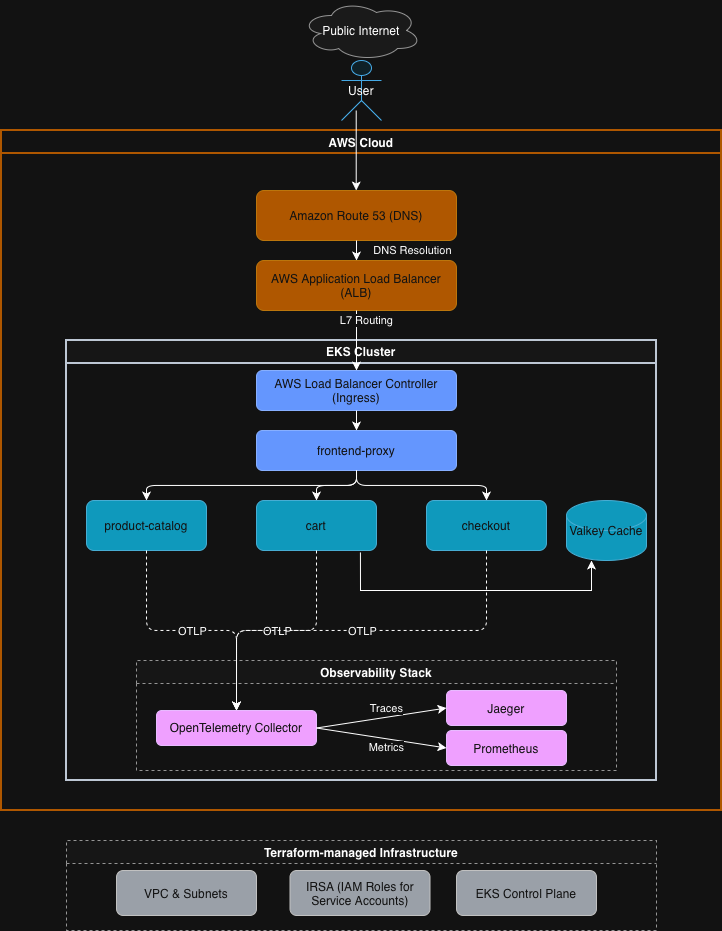
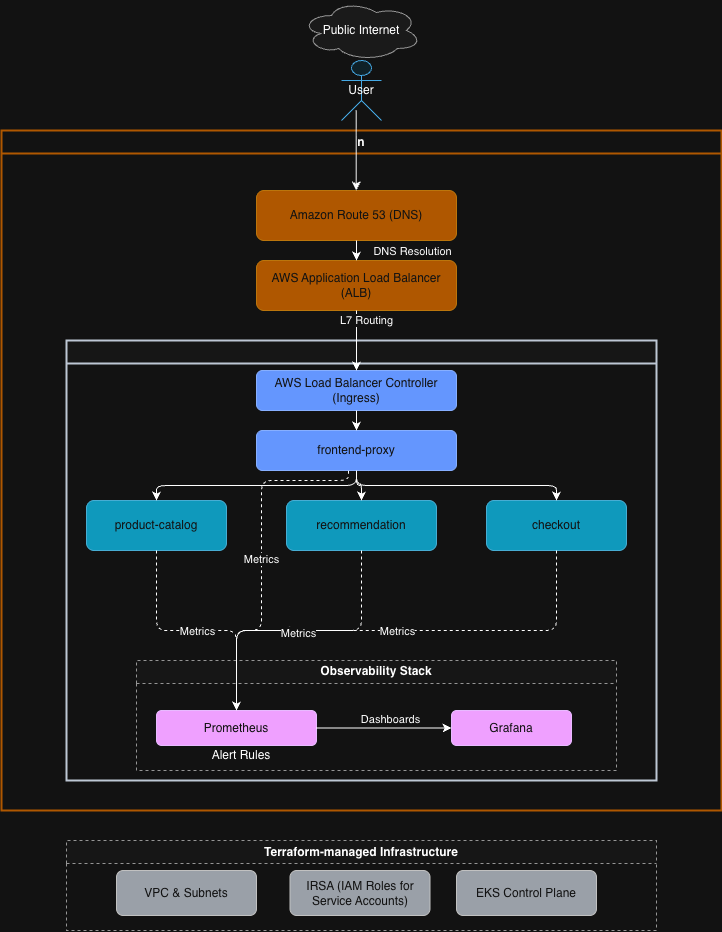
Update architecture diagram to reflect Prometheus-Grafana observability on EKS

diff --git a/README.md b/README.md
@@ -1,119 +1,240 @@
-# Cloud-Native E-Commerce Platform (AWS EKS + GitOps)
+# Cloud-Native E-Commerce Platform
 
-This project demonstrates a production-style, cloud-native microservices
-e-commerce platform deployed on AWS using Kubernetes (EKS), Terraform,
-CI/CD, and GitOps principles.
+A production-grade microservices platform running on AWS EKS with full observability, GitOps deployment, and infrastructure as code.
 
-The focus of this project is not just deployment, but **architecture decisions,
-failure handling, automation, and cost control** — similar to how real
-platform and SRE teams operate in production environments.
+This project demonstrates end-to-end platform engineering: infrastructure provisioning, deployment automation, monitoring with failure validation, and safe release management.
 
 ---
 
-## Architecture Overview
+## Architecture
 
-The application is composed of multiple independently deployable
-microservices running on Kubernetes (Amazon EKS).
+The platform runs 19 microservices on Amazon EKS. Infrastructure is provisioned with Terraform. Deployments follow GitOps principles using ArgoCD, with GitHub Actions handling CI.
 
-Infrastructure such as VPC, EKS cluster, networking, and IAM roles is
-provisioned using Terraform to ensure repeatability and version control.
+![Architecture Diagram](screenshots/architecture.png)
 
-Continuous Integration (CI) is handled using GitHub Actions, while
-Continuous Deployment (CD) follows GitOps principles using Argo CD,
-where Git acts as the single source of truth for the cluster state.
-
----
-
-## Architecture Diagram
-
-![Architecture](docs/architecture.png)
-
----
-
-## Request Flow
-
-User  
-→ DNS (Route53)  
-→ AWS Application Load Balancer (ALB)  
-→ Kubernetes Ingress Controller  
-→ Kubernetes Service  
-→ Pod  
-→ Container  
-→ Response (same path back)
-
-- DNS resolves the custom domain to the ALB
-- ALB forwards traffic to the Ingress Controller
-- Ingress routes traffic based on path rules
-- Services forward traffic to healthy Pods
-- Pods serve requests through containers
-
-**Failure scenarios:**
-- If the Ingress controller is unavailable, external traffic cannot reach the cluster
-- If Service selectors are misconfigured, traffic does not reach Pods even if they are running
-
----
-
-## Why This Stack?
-
-- **Docker**: Packages applications and dependencies consistently
-- **Kubernetes (EKS)**: Provides scaling, self-healing, and service discovery
-- **EKS**: Eliminates operational overhead of managing the Kubernetes control plane
-- **Terraform**: Enables repeatable, version-controlled infrastructure provisioning
-- **ALB + Ingress**: Provides Layer-7 routing using AWS-native load balancing
-- **GitHub Actions**: Used for CI (build and push container images)
-- **Argo CD**: Used for CD via GitOps to prevent configuration drift
-
-AWS IAM Roles for Service Accounts (IRSA) are used to avoid hardcoded
-credentials and follow least-privilege access principles.
-
----
-
-## CI/CD Flow (Example: Product Catalog Service)
-
-1. Code changes trigger a GitHub Actions workflow
-2. Docker image is built and pushed to the container registry
-3. Kubernetes manifests are updated with the new image tag
-4. Argo CD detects the change and synchronizes it to the cluster
-
-This pattern can be reused for other microservices in the platform.
-
----
-
-## Failure & Debugging Approach
-
-- Pod crash → Kubernetes automatically restarts the Pod
-- Node failure → Pods are rescheduled onto healthy nodes
-- Kafka failure → Dependent services degrade while others remain available
-- Misconfigured environment variables → Pods may CrashLoop or behave incorrectly
-
-Debugging typically starts with:
-```bash
-kubectl get pods
-kubectl describe pod <pod-name>
-kubectl logs <pod-name>
+### Request Flow
+```
+User
+→ Route53 (DNS)
+→ AWS Application Load Balancer (ALB)
+→ AWS Load Balancer Controller (Ingress)
+→ Kubernetes Service
+→ Pod
+→ Application Container
 ```
 
-## Cost Control Strategy
+External traffic routes through Route53 to an AWS ALB, which forwards to the AWS Load Balancer Controller (Ingress). The ingress routes requests to Kubernetes services based on path rules, which then load-balance across healthy pods.
 
-Running EKS continuously is expensive, so infrastructure is deployed only
-when required and destroyed afterward using Terraform.
+---
 
-For interviews and demonstrations, architecture diagrams, screenshots, and
-clear explanations are used instead of keeping live infrastructure running.
+## Tech Stack
 
-## How to Run (High-Level)
+**Infrastructure:**
+- AWS (EKS, VPC, Route53, ALB)
+- Terraform for infrastructure as code
+- IRSA (IAM Roles for Service Accounts) for secure pod-level permissions
 
-Provision infrastructure:
-cd terraform && terraform apply
+**Container Orchestration:**
+- Kubernetes on Amazon EKS
+- Helm for package management
+- AWS Load Balancer Controller (Ingress) for L7 routing
 
-Deploy application:
-kubectl apply -f kubernetes/manifests/
+**CI/CD:**
+- GitHub Actions for continuous integration
+- ArgoCD for continuous deployment (GitOps)
+- Git as single source of truth
 
-Destroy:
-cd terraform && terraform destroy
+**Observability:**
+- Prometheus for metrics collection
+- Grafana for visualization and dashboards
+- Custom alerts for failure detection
+
+---
 
 ## Documentation
 
-Architecture diagrams and workflow screenshots are available in the `docs/` directory.
+### Core Operations (Deep Dives)
+- [Observability & Alerting](docs/observability.md) - Monitoring strategy with failure validation
+- [Helm Deployment](docs/helm.md) - Safe upgrade and rollback workflows
+- [CI/CD Deep Dive](docs/ci-cd-deep-dive.md) - Separated CI/CD with GitOps
 
+### Platform Foundations
+- [Containerization](docs/foundations/containerization.md) - Docker multi-stage builds
+- [Infrastructure](docs/foundations/terraform.md) - Terraform provisioning
+- [Kubernetes Orchestration](docs/foundations/kubernetes.md) - K8s deployment patterns
+- [DNS & External Access](docs/foundations/dns-route53.md) - Route53 configuration
 
+### Engineering Context
+- [Lessons Learned](docs/lessons-learned.md) - What changed how I think
+- [Architecture Tradeoffs](docs/tradeoffs.md) - Design decisions and rationale
+
+---
+
+## Key Features
+
+### Observability with Failure Validation
+
+Built a complete observability layer with Prometheus and Grafana:
+- Three custom dashboards (cluster health, application health, failure signals)
+- Alert rules for pod restarts and high CPU usage
+- Validated by intentionally triggering OOMKill failures and proving the monitoring caught them in real-time
+
+See [observability documentation](docs/observability.md) for details.
+
+### Helm Packaging
+
+Packaged the product-catalog service with Helm to demonstrate controlled deployment workflows:
+- Parameterized configuration via `values.yaml`
+- Validated install, upgrade, and rollback lifecycle
+- Demonstrates safe deployment practices
+
+See [Helm documentation](docs/helm.md) for details.
+
+### GitOps Deployment
+
+ArgoCD continuously monitors Git and reconciles cluster state:
+- Git is the single source of truth
+- Manual cluster changes are detected and corrected
+- Rollback is a simple `git revert`
+- Cluster credentials never leave the cluster
+
+See [CI/CD deep dive](docs/ci-cd-deep-dive.md) for details.
+
+---
+
+## Cost Management
+
+EKS clusters are expensive to run continuously. Infrastructure is provisioned on demand using Terraform and destroyed when not needed:
+```bash
+# Provision
+cd terraform && terraform apply
+
+# Deploy application
+kubectl apply -f kubernetes/manifests/
+
+# Destroy
+cd terraform && terraform destroy
+```
+
+For demonstrations and interviews, architecture diagrams, documentation, and screenshots replace permanently running infrastructure.
+
+---
+
+## CI/CD Flow
+
+**Continuous Integration (GitHub Actions):**
+1. Code change triggers workflow
+2. Docker image is built and pushed to registry
+3. Kubernetes manifests are updated with new image tag
+
+**Continuous Deployment (ArgoCD):**
+4. ArgoCD detects manifest change in Git
+5. Cluster state is synchronized automatically
+6. Deployment completes with zero manual intervention
+
+This separation keeps CI simple and cluster credentials isolated.
+
+---
+
+## Failure Scenarios & Recovery
+
+**Pod crashes:**
+- Kubernetes automatically restarts the pod
+- Liveness probes detect failures
+- Observability dashboards show restart spikes
+
+**Node failures:**
+- Pods are rescheduled onto healthy nodes
+- Service discovery updates automatically
+
+**Bad deployments:**
+- Helm rollback to previous version
+- ArgoCD syncs to last known good Git commit
+
+**Configuration errors:**
+- Pods may enter CrashLoopBackOff
+- Debug with: `kubectl logs`, `kubectl describe pod`
+
+---
+
+## What I Learned
+
+This project taught me that DevOps isn't about knowing more tools—it's about understanding where systems fail quietly.
+
+Most issues weren't complex bugs. They were small misconfigurations with large effects. This shifted my debugging approach from "why isn't this working" to "what assumption did I just make that isn't true?"
+
+See [lessons learned](docs/lessons-learned.md) for detailed reflections.
+
+---
+
+## Certifications
+
+- Certified Kubernetes Administrator (CKA)
+- Certified Kubernetes Application Developer (CKAD)
+- AWS Certified Solutions Architect – Associate
+- HashiCorp Terraform Associate
+- AWS Certified Cloud Practitioner
+
+---
+
+## Quick Start
+
+### Prerequisites
+- AWS CLI configured
+- kubectl installed
+- Terraform installed
+
+### Deploy Infrastructure
+```bash
+cd terraform
+terraform init
+terraform apply
+```
+
+### Configure kubectl
+```bash
+aws eks update-kubeconfig --region ap-south-1 --name my-eks-cluster
+```
+
+### Deploy Application
+```bash
+kubectl apply -f kubernetes/manifests/
+```
+
+### Access Application
+Application is accessible via custom domain configured through Route53.
+
+---
+
+## Repository Structure
+```
+.
+├── terraform/              # Infrastructure as code
+├── kubernetes/            # K8s manifests and configs
+├── helm/                  # Helm charts
+├── .github/workflows/     # CI pipelines
+├── docs/                  # Documentation
+│   ├── foundations/       # Platform foundations
+│   ├── observability.md   # Monitoring deep dive
+│   ├── helm.md           # Helm deployment
+│   ├── ci-cd-deep-dive.md # CI/CD architecture
+│   ├── lessons-learned.md # Project learnings
+│   └── tradeoffs.md      # Design decisions
+└── screenshots/          # Evidence and validation
+    ├── foundations/      # Infrastructure proofs
+    ├── observability/    # Monitoring screenshots
+    ├── helm/            # Deployment lifecycle
+    └── cicd/            # Pipeline execution
+```
+
+---
+
+## Project Background
+
+This project was built to demonstrate production-grade DevOps practices for Kubernetes-based microservices. The architectural patterns were learned from a comprehensive DevOps course, which I extended with:
+
+- Complete observability layer with custom dashboards and failure validation
+- Helm packaging with lifecycle management
+- Comprehensive documentation and testing
+
+The observability layer, failure validation, deployment strategy, and production thinking represent my independent work building on foundational patterns.
